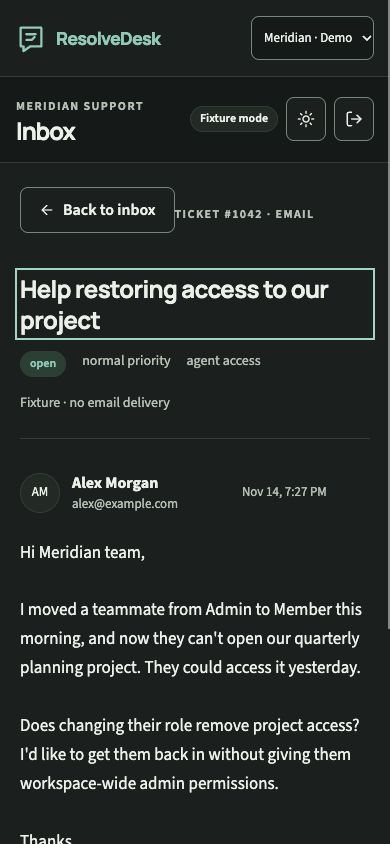
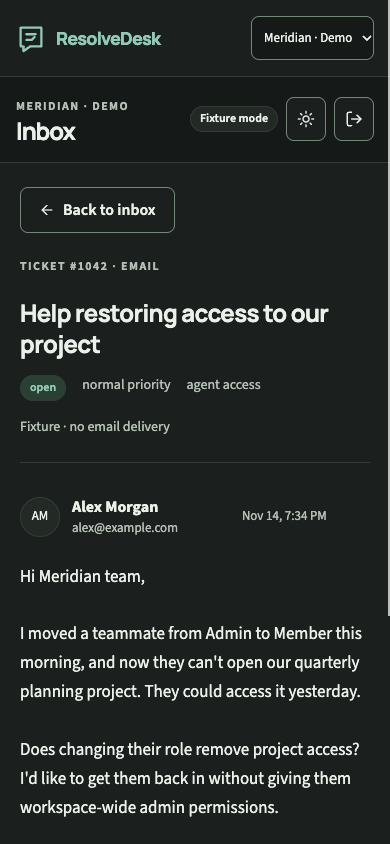
docs: record S01 browser and integration evidence #2

diff --git a/apps/web/app/inbox/page.tsx b/apps/web/app/inbox/page.tsx
@@ -187,7 +187,9 @@ export default function InboxPage() {
       <main id="main" className="workspace-main">
         <header className="workspace-header">
           <div>
-            <span className="eyebrow">Meridian support</span>
+            <span className="eyebrow">
+              {workspace?.name ?? "Support workspace"}
+            </span>
             <h1>Inbox</h1>
           </div>
           <div className="header-actions">
@@ -258,7 +260,7 @@ export default function InboxPage() {
                       <span>#{t.number}</span>
                     </span>
                     <strong>{t.subject}</strong>
-                    <p>Role changes and project permissions</p>
+                    <p>{t.customer_email}</p>
                     <span className="badge open">{t.status}</span>
                   </button>
                 ))

diff --git a/docs/verification/s01.md b/docs/verification/s01.md
@@ -1,0 +1,30 @@
+# S01 — isolated workspace and persisted sample ticket
+
+Verified 14 November 2026. Fixture mode only; no OpenAI requests or Gmail activity.
+
+## Automated evidence
+
+- Real HTTP + Better Auth + PostgreSQL scenarios: **23 assertions passed**. Anonymous identity, distinct visitor workspaces, message persistence, stable reload, fixed session lifetime, cross-workspace denials, forged identity rejection, origin validation, concurrent bootstrap deduplication, role revocation, Viewer reads, unavailable mutation routes, composite ownership constraint, session/workspace expiry and sign-out.
+- Python: Ruff and Pyright passed. Web: ESLint, Next type generation, TypeScript and production build passed.
+- npm audit: zero reported vulnerabilities after moving to compatible maintained lint plugins and patched minimatch. This is a point-in-time result.
+- Clean GitHub CI runs the same application against a disposable PostgreSQL container. Run: https://github.com/Kagerrak/resolvedesk/actions/runs/43590409457 (final status recorded on PR).
+
+## Interactive ego-browser evidence
+
+- Entry creates a private persisted workspace; ticket and theme survive reload.
+- Desktop light/dark screenshots inspected; mobile 390px light/dark screenshots inspected.
+- No horizontal overflow at 360, 390, 768, 1280 and 1440px with reduced motion enabled.
+- Keyboard Enter opens the selected ticket, focuses its heading, and Back returns focus to the queue row.
+- A temporary second authorized workspace loads its own ticket and Viewer explanation; the previous conversation disappears. Temporary QA workspace removed afterward.
+- Viewer has no mutation controls. Expired session clears content and links to demo entry; fresh entry successfully opens another workspace.
+- Expired workspace with a still-valid session shows an empty authorized list without stale conversation content; entry recovery signs out the expired workspace identity and opens a fresh persisted ticket successfully.
+- Twelve tested semantic color pairs pass their WCAG text/control thresholds; actual computed values in s01-contrast.json. This is not a full accessibility certification.
+- 200% CSS zoom reflow passes without horizontal overflow. Native browser zoom shortcuts did not change the viewport; native 200% zoom remains unverified and is retained for S13 final accessibility QA.
+
+## Review
+
+Independent standards and specification reviews identified stale UI content, non-JSON error copy, sliding session lifetime and missing generated types on clean CI. All corrected; targeted rereviews report no remaining material findings.
+
+## Limits
+
+No unattended CI browser execution is configured or claimed. S01 is a local read-only fixture journey. Staff sign-in, manual changes, approved knowledge, AI, Gmail, retention cleanup, public abuse limits, hosted deployment and final brand exports remain in S02–S13. The current logo is provisional. Do not publicly expose this slice or enter real customer data.

diff --git a/docs/planning/s01-checkpoint.md b/docs/planning/s01-checkpoint.md
@@ -4,6 +4,6 @@ Implemented: Better Auth anonymous sessions, transactional isolated demo creatio
 
 Confirmed: Better Auth, up to USD 25/month infrastructure separately from USD 20/month AI allowance. No paid resources provisioned.
 
-Verified locally so far: production build, web lint/typecheck, Python static checks, 21 real HTTP/PostgreSQL assertions; desktop ego-browser entry/read/reload/both themes. Mobile, keyboard, expiration UI and final review remain in progress. No hosted deployment, live providers, AI evaluations or unattended browser CI claimed.
+Verified locally so far: production build, web lint/typecheck, Python static checks, 23 real HTTP/PostgreSQL assertions; desktop ego-browser entry/read/reload/both themes. Mobile, keyboard, session-expiration recovery and final review passed. GitHub CI completion is pending. No hosted deployment, live providers, AI evaluations or unattended browser CI claimed.
 
 Remaining project scope: S02–S13. This slice must not imply drafting, knowledge, Gmail, automated cleanup or public abuse protection exist. Local-only until S12.
